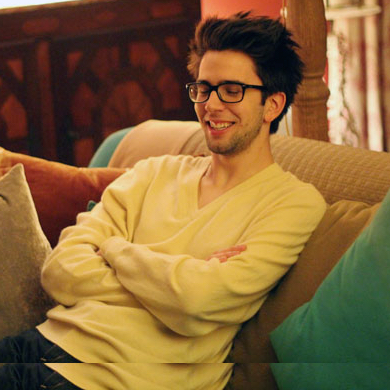
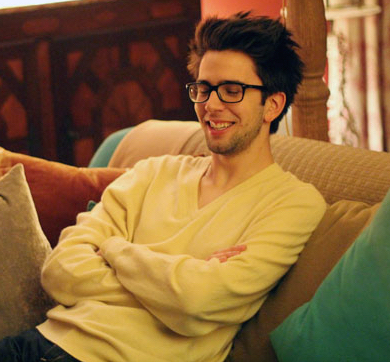
feat: jpg optimization

diff --git a/gulpfile.js b/gulpfile.js
@@ -49,6 +49,14 @@ gulp.task('javascripts', function () {
     .pipe($.connect.reload())
 })
 
+gulp.task('imagemin', function () {
+  var imagemin = require('gulp-imagemin')
+
+  return gulp.src(sources.images)
+    .pipe(imagemin({ progressive: true }))
+    .pipe(gulp.dest('site/_assets/images'))
+})
+
 gulp.task('images', function () {
   return gulp.src(sources.images)
     .pipe($.plumber())
